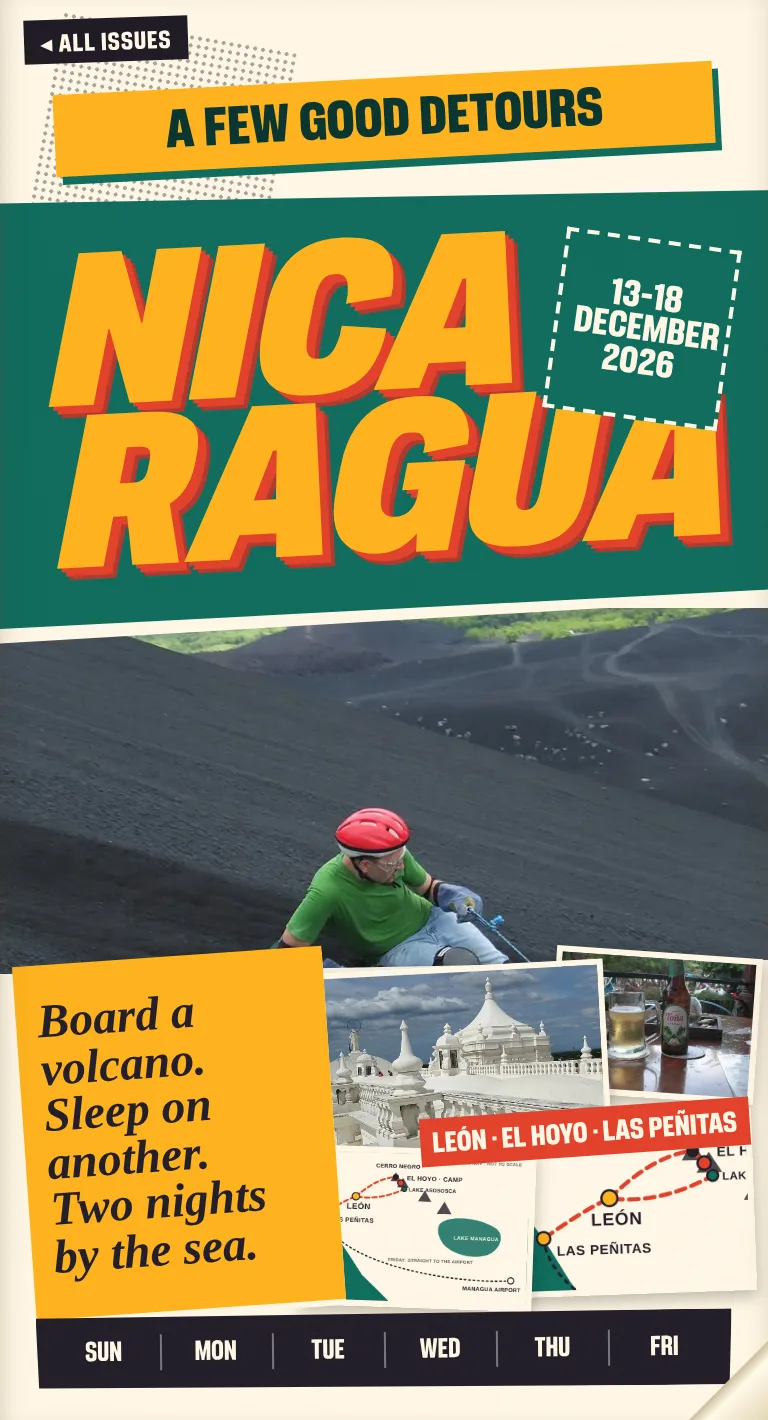
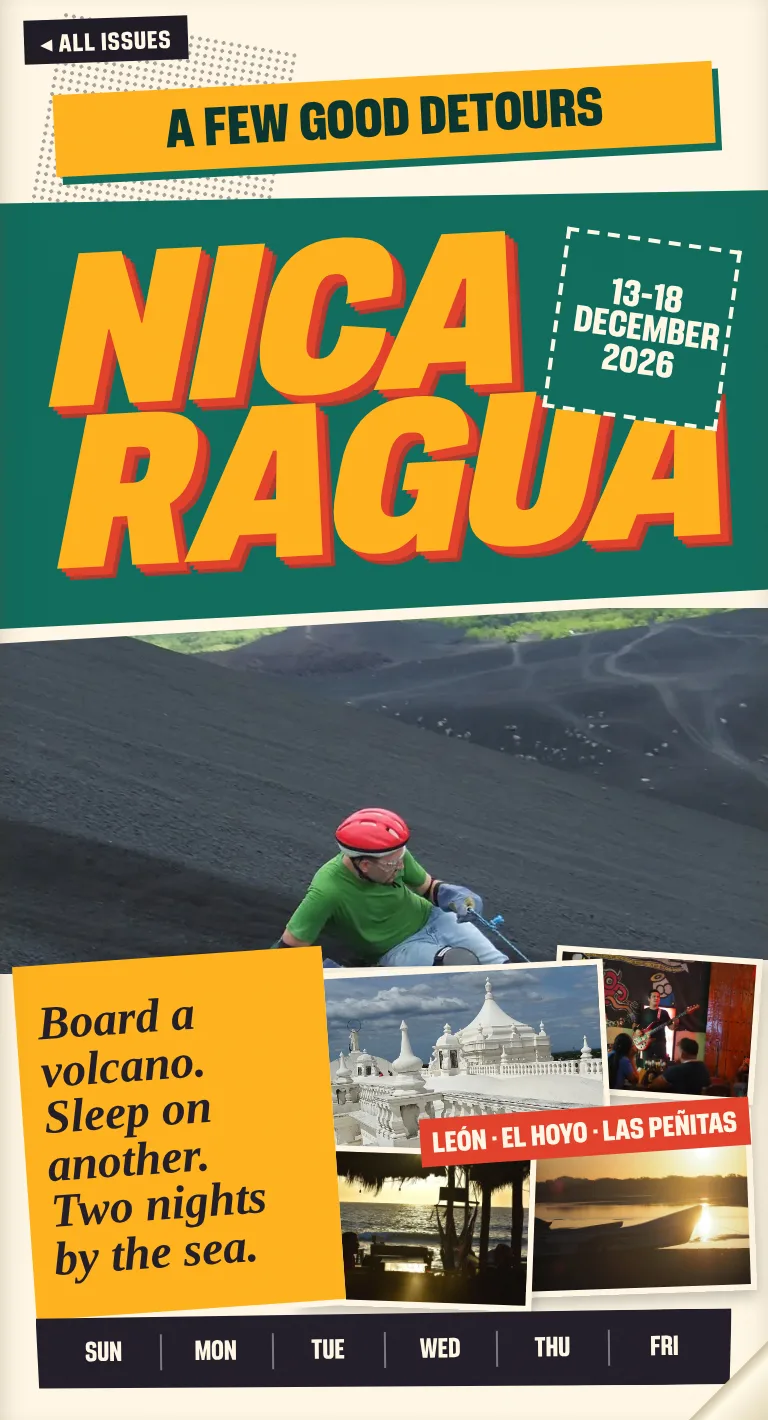
Nicaragua polish: hand-made map, night tags, collage camp and Mano pages (#4)
Claude-Session: https://claude.ai/code/session_01Pww3nmynWwoBnrKmBPEjt3

Changed region(s): [[0.4375, 0.8056, 1.0, 0.9296], [0.0625, 0.6817, 0.3438, 0.8986], [0.75, 0.6507, 1.0, 0.7746]]

diff --git a/nicaragua/book.js b/nicaragua/book.js
@@ -65,7 +65,7 @@ function pieceHTML(d,p,k){
  const act=s?`data-stop="${d.id}:${p.stop}"`:`data-photo="${esc(p.img)}" data-caption="${esc(p.cap||P(p.img).caption||p.label||'')}"`;
  return `<button type="button" class="piece ${p.kind||''}" style="${st}" ${act} aria-label="${esc((p.label||p.cap||P(p.img).caption||'Photo')+(s?' · details':' · enlarge photo'))}">${imgTag(p.img,p.pos?`style="object-position:${p.pos}"`:'')}${p.label?`<span class="piece-label ${p.lp||''}">${p.time?`<b>${esc(p.time)}</b> `:''}${esc(p.label)}</span>`:''}</button>`;
 }
-const STATUS_TAG={Optional:'maybe','To book':'book','To confirm':'confirm','To quote':'quote','Observed, unbooked':'unbooked',Booked:'booked'};
+const STATUS_TAG={Optional:'maybe','To book':'book','To confirm':'book','To quote':'book','Observed, unbooked':'book'};
 function dayPageHTML(d,i){
  const st=STORY[d.id];
  const rows=d.stops.map((s,k)=>{const [t,n]=short(s);const tag=STATUS_TAG[s.status]||'';return `<button type="button" class="sheet-row${s.status==='Optional'?' optional':''}" data-stop="${d.id}:${k}"><b>${esc(t)}</b><span>${esc(n)}${tag?` <em>${tag}</em>`:''}</span></button>`;}).join('');
@@ -73,14 +73,14 @@ function dayPageHTML(d,i){
 }
 function spreadHTML(id){const st=STORY[id];return `<div class="collage spread-collage">${st.pieces.map((p,k)=>pieceHTML(null,p,k)).join('')}</div>`;}
 function buildPages(){
- addPage(`<a class="stand-tab" href="../?from=nic">◂ ALL ISSUES</a><div class="halftone"></div><div class="cover-strap">A FEW GOOD DETOURS</div><div class="cover-head"><h1>NICA<br>RAGUA</h1><div class="cover-date"><span>13–18</span><span>DECEMBER</span><span>2026</span></div></div><div class="cover-train">${photoButton('boarding','cover-photo').split('<p class="photo-credit">')[0]}</div><div class="cover-bottom"><div class="cover-quote">Board a volcano.<br>Sleep on another.<br>Two nights by the sea.</div><div class="cover-mosaic">${imgTag('leon','class="m1"')}${imgTag('tona','class="m2"')}${imgTag('route','class="m3"')}${imgTag('routecoast','class="m4"')}<span class="m-tag">LEÓN · EL HOYO · LAS PEÑITAS</span></div></div>${tabs('')}`,{id:'cover',label:'The cover'},'cover');
+ addPage(`<a class="stand-tab" href="../?from=nic">◂ ALL ISSUES</a><div class="halftone"></div><div class="cover-strap">A FEW GOOD DETOURS</div><div class="cover-head"><h1>NICA<br>RAGUA</h1><div class="cover-date"><span>13–18</span><span>DECEMBER</span><span>2026</span></div></div><div class="cover-train">${photoButton('boarding','cover-photo').split('<p class="photo-credit">')[0]}</div><div class="cover-bottom"><div class="cover-quote">Board a volcano.<br>Sleep on another.<br>Two nights by the sea.</div><div class="cover-mosaic">${imgTag('leon','class="m1"')}${imgTag('viaviaband','class="m2"')}${imgTag('penitassunset','class="m3"')}${imgTag('venadosunrise','class="m4"')}<span class="m-tag">LEÓN · EL HOYO · LAS PEÑITAS</span></div></div>${tabs('')}`,{id:'cover',label:'The cover'},'cover');
  addPage(`${running('CONTENTS',1)}<h2 class="index-title">SIX DAYS.<br><em>FIVE NIGHTS.</em></h2><div class="contents-grid six">${TRIP.days.map((d,i)=>{const st=STORY[d.id]||{};return `<button class="contents-tile t${i}" type="button" data-day="${d.id}">${imgTag(st.cover)}<span class="tile-day">${d.day.slice(0,3).toUpperCase()} ${d.short}</span><strong>${esc(st.tile||d.label)}</strong></button>`;}).join('')}</div><div class="contents-extras"><button type="button" data-jump="route">THE ROUTE</button><button type="button" data-jump="camping">CAMPING</button><button type="button" data-jump="mano">MANO</button><button type="button" data-jump="costs">BUDGET</button><button type="button" data-jump="bookings">TO SORT</button><button type="button" data-jump="alternatives">MAYBES</button><button type="button" data-jump="practical">BEFORE YOU GO</button><a href="../new-york.html">NEW YORK ▸</a><a href="../?from=nic">◂ NEWSSTAND</a></div>${tabs('')}`,{id:'contents',label:'Contents'},'contents');
- addPage(`${running('THE ROUTE',2)}<h2 class="page-title">SIX DAYS,<br>FIVE NIGHTS.</h2><p class="special-intro">Four paid beds and one tent that comes with the tour. Only the flights are booked.</p><div class="route-map">${photoButton('route','cover-photo').split('<p class="photo-credit">')[0]}</div><div class="night-list">${TRIP.nights.map(n=>`<div class="night-row ${n.kind}"><b>${esc(n.day)}</b><strong>${esc(n.where)}</strong><span>${esc(n.what)}</span></div>`).join('')}</div>${tabs('')}`,{id:'route',label:'The route'},'special route-page');
+ addPage(`${running('THE ROUTE',2)}<h2 class="page-title">SIX DAYS,<br>FIVE NIGHTS.</h2><p class="special-intro">Four paid beds and one tent that comes with the tour. Only the flights are booked.</p><div class="route-map">${photoButton('route','cover-photo').split('<p class="photo-credit">')[0]}</div><div class="night-tags">${TRIP.nights.map((n,k)=>`<div class="night-tag ${n.kind}" style="--r:${[-2,1.5,-1,2,-1.5,1][k]}deg"><b>${esc(n.day)}</b><strong>${esc(n.where)}</strong><span>${esc(n.what)}</span></div>`).join('')}</div>${tabs('')}`,{id:'route',label:'The route'},'special route-page');
  TRIP.days.forEach(d=>{const i=pages.length;dayPage[d.id]=i;addPage(dayPageHTML(d,i),{id:d.id,label:`${d.day} ${d.short} December`,day:d.id},'day');});
  const C=TRIP.camping;
- addPage(`${running('THE CAMP · MON 14–TUE 15',pages.length)}<h2 class="page-title">A NIGHT<br>ON EL HOYO.</h2>${spreadHTML('camping')}<div class="spread-facts"><p class="price-stamp">${usd(115)} <small>${gbp(115)}</small></p><p><strong>${esc(C.price)}</strong>. Published, to confirm for Monday 14 (minimum three people).</p><p class="chips">${C.included.map(x=>`<span>${esc(x)}</span>`).join('')}</p><p>A challenging hike in the heat with overnight gear. Bring 7–8 litres of water.</p></div><button class="special-button" type="button" data-open="camping">What to bring & confirm</button>${tabs('')}`,{id:'camping',label:'The camp'},'special spread-page');
+ addPage(`${running('THE CAMP · MON 14–TUE 15',pages.length)}<h2 class="page-title">A NIGHT<br>ON EL HOYO.</h2>${spreadHTML('camping')}<button class="special-button" type="button" data-open="camping">What to bring & confirm</button>${tabs('')}`,{id:'camping',label:'The camp'},'special spread-page');
  const mano=B.lines.find(l=>l.id==='mano'),pc=B.privateCoast;
- addPage(`${running('THE COAST · WED 16–FRI 18',pages.length)}<h2 class="page-title">TWO NIGHTS<br>AT MANO.</h2>${spreadHTML('mano')}<div class="spread-facts"><p><strong>Mano a Mano</strong>, an eco-hostel in Las Peñitas. Mixed dorms, rustic private lofts, hammocks, timber, the beach. <em>Mano a mano</em> means hand to hand.</p><p><strong>Dorm:</strong> availability seen 22 Nov; ${usd(26)} showed for one guest, both nights, before checkout. Budget ${span(mano.low,mano.high,usd)} (${span(mano.low,mano.high,gbp)}). Not held.</p><p><strong>Private:</strong> no Mano room covered both nights. A private room nearby is ${span(pc.low,pc.high,usd)} (${span(pc.low,pc.high,gbp)}), unquoted.</p></div><a class="special-button" href="https://www.beds24.com/book-manoamano" target="_blank" rel="noopener noreferrer">Mano’s booking calendar ↗</a>${tabs('')}`,{id:'mano',label:'Mano a Mano'},'special spread-page');
+ addPage(`${running('THE COAST · WED 16–FRI 18',pages.length)}<h2 class="page-title">TWO NIGHTS<br>AT MANO.</h2>${spreadHTML('mano')}<a class="special-button" href="https://www.beds24.com/book-manoamano" target="_blank" rel="noopener noreferrer">Mano’s booking calendar ↗</a>${tabs('')}`,{id:'mano',label:'Mano a Mano'},'special spread-page');
  const lo=sumLo(B.lines),hi=sumHi(B.lines);
  addPage(`${running('THE BUDGET',pages.length)}<h2 class="page-title">WHAT IT’LL<br>COST YOU.</h2><p class="special-intro">Just you: no shared rooms, every car paid in full. $1 = £${GBP}.</p><div class="budget-table">${B.lines.map(l=>`<div class="budget-row"><span class="b-label">${esc(l.label)}<small class="k-${l.kind}">${esc(KIND[l.kind])}</small></span><em>${span(l.low,l.high,usd)}</em><em class="b-gbp">${span(l.low,l.high,gbp)}</em></div>`).join('')}<div class="budget-row total"><span class="b-label">On the ground</span><em>${span(lo,hi,usd)}</em><em class="b-gbp">${span(lo,hi,gbp)}</em></div><div class="budget-row paid"><span class="b-label">${esc(TRIP.flight.label)}</span><em></em><em class="b-gbp">${flightGbp}</em></div><div class="budget-row grand"><span class="b-label">Nicaragua, flight + ground</span><em class="b-gbp">${withFlight(lo)}–${withFlight(hi).slice(1)}</em></div></div><div class="budget-alt"><strong>Private room on the coast instead of the dorm:</strong> ground ${span(sumLo(privateLines()),sumHi(privateLines()),usd)} · ${span(sumLo(privateLines()),sumHi(privateLines()),gbp)}, flight + ground ${withFlight(sumLo(privateLines()))}–${withFlight(sumHi(privateLines())).slice(1)}. Unquoted. Practical target: set aside about £500 for the ground.</div><button class="special-button" type="button" data-open="costs">Split cars, private room, extras</button>${tabs('')}`,{id:'costs',label:'The budget'},'special budget-page');
  addPage(`${running('BEFORE YOU GO',pages.length)}<h2 class="page-title">GETTING IN,<br>GETTING ABOUT.</h2><div class="practical">${TRIP.practical.map(p=>`<h3>${esc(p.head)}</h3><p>${esc(p.text)}</p>`).join('')}</div><div class="button-pair"><button class="special-button" type="button" data-open="travel">Flights & transfers</button><button class="special-button" type="button" data-open="credits">Sources & credits</button></div><button class="special-button offline-button" type="button" data-save-offline>Save photos for offline</button>${tabs('')}`,{id:'practical',label:'Before you go'},'special credits-page practical-page');

diff --git a/nicaragua/story.js b/nicaragua/story.js
@@ -16,18 +16,17 @@ const STORY={
   {note:'7–8 litres of water. That bit’s on you.',x:54,y:73,w:44,r:1,kind:'handl'},
   {note:'$95 + $10 + $10 = $115<small>Published, to confirm for Mon 14 · minimum three</small>',x:3,y:86,w:94,r:-1,kind:'ticket'}]},
  tue:{kicker:'LAKE & LEÓN',tile:'Lake & León',cover:'leonnight',line:'Sunrise on the mountain, a crater lake, a León night.',pieces:[
-  {img:'asososca',x:0,y:0,w:100,h:40,kind:'cut',stop:1,time:'MORNING',label:'Lake Asososca',lp:'big'},
-  {img:'viaviaband',x:46,y:38,w:54,h:32,r:2,kind:'border tape',stop:3,time:'EVENING',label:'León night',lp:'right'},
-  {img:'view',x:1,y:41,w:44,h:26,r:-2.5,kind:'border',stop:0,time:'DAWN',label:'From camp'},
-  {note:'Back around midday. Bag, shower, laundry.',x:2,y:70,w:44,r:-2,kind:'sticker'},
-  {note:'Bands play ViaVia some nights. Check what’s on; don’t count on it.',x:48,y:74,w:50,r:1,kind:'handl'},
-  {note:'León bed, night 2 of 2.',x:2,y:86,w:44,r:-1,kind:'hand'}]},
+  {img:'asososca',x:0,y:0,w:100,h:42,kind:'cut',stop:1,time:'MORNING',label:'Lake Asososca',lp:'big'},
+  {img:'view',x:1,y:40,w:46,h:36,r:-2.5,kind:'border',stop:0,time:'DAWN',label:'From camp'},
+  {img:'viaviaband',x:47,y:42,w:53,h:39,r:2,kind:'border tape',stop:3,time:'EVENING',label:'León night',lp:'right'},
+  {note:'Back around midday. Bag, shower, laundry.',x:2,y:80,w:44,r:-2,kind:'sticker'},
+  {note:'Bands play ViaVia some nights. Check what’s on.',x:50,y:85,w:48,r:1,kind:'handl'}]},
  wed:{kicker:'TO THE COAST',tile:'Friends, then the coast',cover:'penitasbeach',line:'A morning with friends, then out to Las Peñitas.',pieces:[
   {img:'manoCommunal',x:0,y:0,w:100,h:42,kind:'cut',stop:2,time:'LATE AFTERNOON',label:'Mano a Mano',lp:'big'},
-  {img:'leonmural',x:1,y:40,w:46,h:27,r:-2.5,kind:'border',stop:0,time:'MORNING',label:'León'},
-  {img:'penitasbeach',x:50,y:42,w:50,h:28,r:2,kind:'border tape',stop:3,time:'EVENING',label:'The beach',lp:'right'},
-  {note:'Leave 14:00–15:00. Car $20–25 for the whole thing.',x:2,y:71,w:46,r:1.5,kind:'sticker'},
-  {note:'Dorm seen free on the calendar. Not held. No big night to manufacture.',x:50,y:74,w:48,r:-1,kind:'handl'}]},
+  {img:'leonmural',x:1,y:40,w:47,h:36,r:-2.5,kind:'border',stop:0,time:'MORNING',label:'León'},
+  {img:'penitasbeach',x:49,y:42,w:51,h:38,r:2,kind:'border tape',stop:3,time:'EVENING',label:'The beach',lp:'right'},
+  {note:'Leave 14:00–15:00. Car $20–25 for the whole thing.',x:2,y:80,w:46,r:1.5,kind:'sticker'},
+  {note:'No big night to manufacture.',x:52,y:85,w:46,r:-1,kind:'handl'}]},
  thu:{kicker:'THE SLOW DAY',tile:'A whole coastal day',cover:'venadosunrise',line:'Sea air, a book, people to talk to.',pieces:[
   {img:'venadosunrise',x:0,y:0,w:100,h:40,kind:'cut',stop:1,time:'LATE AM',label:'Juan Venado',lp:'big'},
   {img:'breakfast',x:1,y:38,w:44,h:26,r:-2.5,kind:'border',stop:0,time:'MORNING',label:'Breakfast'},
@@ -36,19 +35,26 @@ const STORY={
   {note:'Boat into the mangroves? Ask at Mano. $30–60, unquoted.',x:46,y:41,w:26,r:1.5,kind:'handl'},
   {note:'Mano night 2. No transfer today.',x:2,y:90,w:60,r:-1,kind:'sticker'}]},
  fri:{kicker:'HOMEWARD',tile:'Straight to the airport',cover:'route',line:'Pickup around 09:00, Managua by noon, fly at 15:40.',pieces:[
-  {img:'route',x:0,y:0,w:100,h:46,kind:'cut',stop:0,time:'~09:00',label:'Coast → airport',lp:'big'},
-  {img:'penitasbeach',x:2,y:44,w:48,h:28,r:-2.5,kind:'border',cap:'One last look'},
-  {note:'Direct car, $100–130 allowance. No quote yet.',x:53,y:47,w:45,r:1.5,kind:'sticker'},
-  {note:'No boat, no surf, no detour this morning.',x:52,y:64,w:46,r:-1,kind:'handl'},
-  {note:'MGA 15:40 → San Salvador<small>18:25 → JFK, lands 00:10 Saturday · booked</small>',x:3,y:79,w:94,r:-1,kind:'ticket'}]},
+  {img:'route',x:0,y:0,w:100,h:46,kind:'cut',stop:0,time:'~09:00',label:'Coast → airport',lp:'big',pos:'center 60%'},
+  {img:'penitasbeach',x:1,y:44,w:50,h:31,r:-2.5,kind:'border',cap:'One last look'},
+  {note:'Direct car, $100–130 allowance. No quote yet.',x:54,y:47,w:44,r:1.5,kind:'sticker'},
+  {note:'No boat, no surf, no detour this morning.',x:54,y:64,w:44,r:-1,kind:'handl'},
+  {note:'MGA 15:40 → San Salvador<small>18:25 → JFK, lands 00:10 Saturday · booked</small>',x:3,y:81,w:94,r:-1,kind:'ticket'}]},
  camping:{pieces:[
-  {img:'view',x:0,y:0,w:100,h:56,kind:'cut',label:'The overnight route',lp:'big'},
-  {img:'campsite',x:2,y:50,w:48,h:44,r:-2.5,kind:'border',label:'2013 photo'},
-  {img:'cerroUp',x:52,y:52,w:46,h:42,r:2,kind:'border tape',label:'Boards up'}]},
+  {img:'view',x:0,y:0,w:100,h:40,kind:'cut',label:'The overnight route',lp:'big'},
+  {img:'campsite',x:1,y:37,w:49,h:29,r:-2.5,kind:'border',label:'Camp, 2013 photo'},
+  {img:'cerroUp',x:51,y:39,w:48,h:29,r:2,kind:'border tape',label:'Boards up Cerro Negro',lp:'right'},
+  {note:'Supplied: transport, guide, tent, mat, sleeping bag, backpack, four meals.',x:2,y:69,w:52,r:-1.5,kind:'sticker'},
+  {note:'You carry 7–8 litres of water. It’s a real climb in the heat.',x:56,y:70,w:42,r:1.5,kind:'handl'},
+  {note:'$95 + $10 + $10 = $115 · £88<small>Published · confirm Mon 14 runs · minimum three people</small>',x:3,y:86,w:94,r:-1,kind:'ticket'}]},
  mano:{pieces:[
-  {img:'manoShared',x:0,y:0,w:64,h:56,r:-1,kind:'border',label:'The courtyard'},
-  {img:'manoBar',x:62,y:0,w:38,h:72,r:2.5,kind:'border tape',label:'The bar',lp:'right',pos:'center 35%'},
-  {img:'penitasbeach',x:0,y:56,w:60,h:40,r:1.5,kind:'border',label:'The beach'}]}
+  {img:'manoShared',x:0,y:0,w:62,h:40,r:-1,kind:'border',label:'The courtyard'},
+  {img:'manoBar',x:60,y:0,w:40,h:54,r:2.5,kind:'border tape',label:'The bar',lp:'right',pos:'center 35%'},
+  {img:'penitasbeach',x:1,y:41,w:57,h:28,r:1.5,kind:'border',label:'The beach'},
+  {note:'Dorm seen free Wed–Thu. $26 for both nights before checkout. Not held.',x:60,y:57,w:39,r:2,kind:'sticker'},
+  {note:'No Mano private room free both nights. One nearby: $80–140, unquoted.',x:2,y:72,w:56,r:-1,kind:'handl'},
+  {note:'Mano a mano: hand to hand.',x:60,y:80,w:38,r:1,kind:'hand'},
+  {note:'Dorm budget $30–40 · £23–31<small>Wed 16 – Fri 18 · one guest · taxes to confirm</small>',x:3,y:89,w:94,r:-1,kind:'ticket'}]}
 };
 /* Short rundown labels: [time tag, name] */
 const SHORT={

diff --git a/nicaragua/nic.css b/nicaragua/nic.css
@@ -69,3 +69,18 @@
 .calc-controls select{font:inherit;padding:6px 8px;border:2px solid var(--ink);background:var(--paper);color:var(--ink)}
 .calc-check{display:flex;align-items:center;gap:6px}
 .calc-check input{width:20px;height:20px}
+/* Polish round: uncropped map, night tags, full-height spreads */
+.route-page .route-map{height:auto;min-height:0;aspect-ratio:16/9;margin:4px -2% 8px;border:0;transform:rotate(-.6deg);box-shadow:0 3px 8px #2a1f1a33;max-width:104%}
+.route-page .route-map .cover-photo img{object-fit:contain;object-position:center;background:var(--paper)}
+.night-tags{display:grid;grid-template-columns:repeat(3,1fr);gap:9px 7px;margin-top:4px}
+.night-tag{background:var(--paper);border:2px solid var(--ink);padding:6px 7px 7px;transform:rotate(var(--r));box-shadow:2px 2px 0 var(--ink);display:flex;flex-direction:column;gap:1px;min-width:0}
+.night-tag b{font-family:var(--ui);font-variation-settings:'wdth' 80,'wght' 900;font-weight:normal;color:var(--red);font-size:max(12px,3.3cqw);line-height:1}
+.night-tag strong{font-family:var(--ui);font-variation-settings:'wdth' 70,'wght' 950;font-weight:normal;text-transform:uppercase;font-size:max(17px,5.2cqw);line-height:.95;overflow-wrap:anywhere}
+.night-tag span{font-size:max(11px,2.9cqw);line-height:1.15}
+.night-tag.camp{background:var(--red);color:var(--paper);border-color:var(--red)}.night-tag.camp b{color:var(--orange)}
+.night-tag.flight{background:var(--ink);color:var(--paper)}.night-tag.flight b{color:var(--orange)}
+.spread-page .spread-collage{flex:1;height:auto;min-height:300px}
+.night-tags{grid-template-columns:repeat(2,1fr);gap:10px 9px;flex:1;align-content:space-evenly}
+.night-tag{padding:8px 9px 9px}
+.night-tag strong{font-size:max(19px,6cqw)}
+.night-tag span{font-size:max(12px,3.2cqw)}
